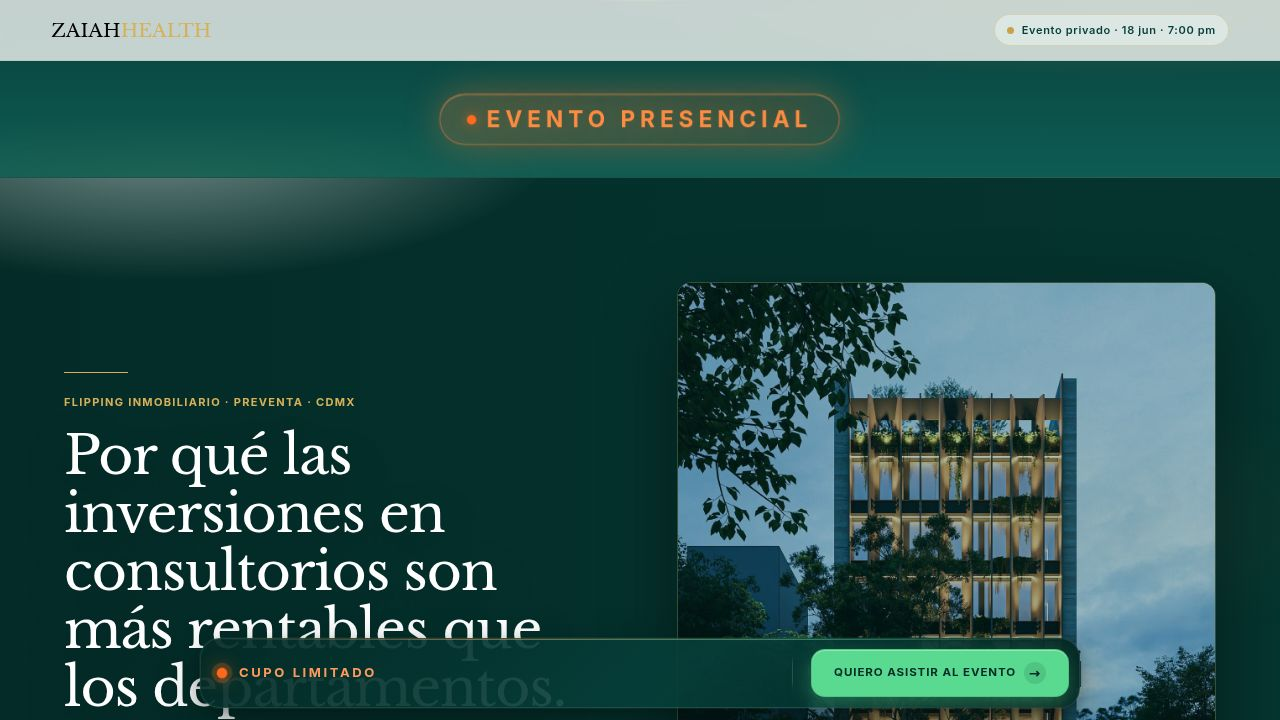
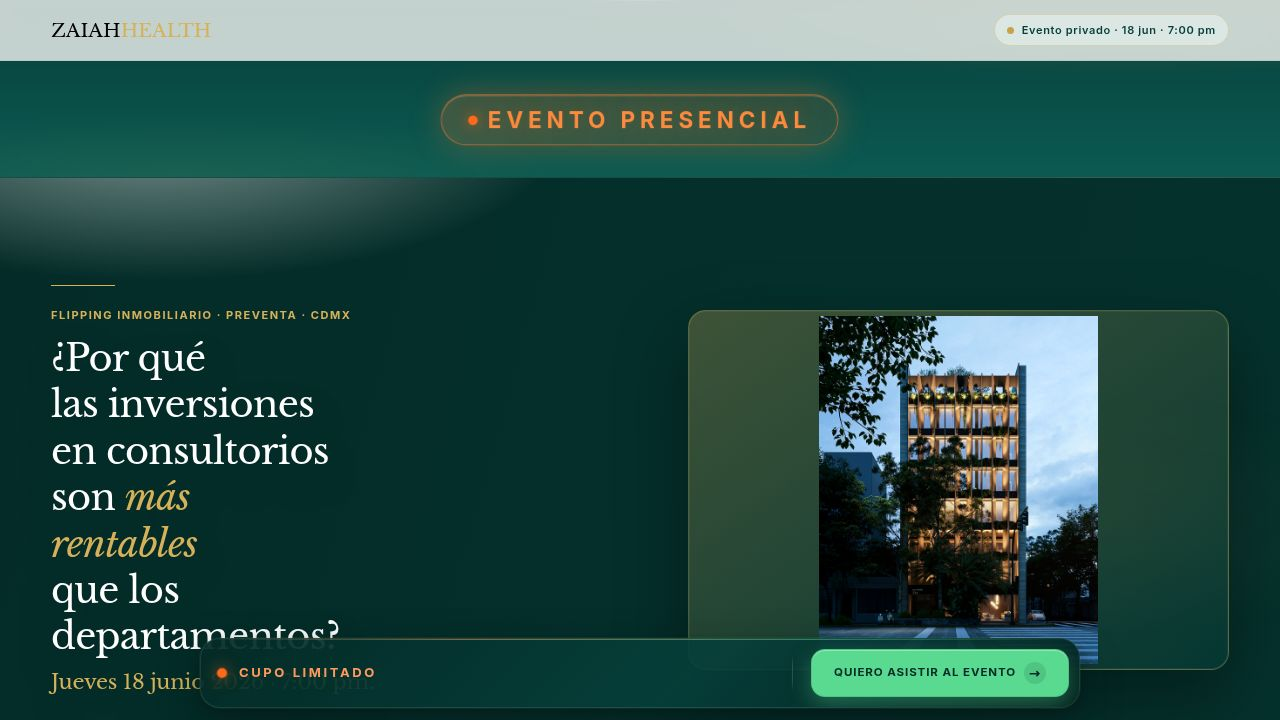
Improve form submission speed and appearance
Make the form hide after submission and speed up API response times by processing background tasks asynchronously.

Replit-Commit-Author: Agent
Replit-Commit-Session-Id: 08580ebf-9783-4f84-9966-c726d7574d09
Replit-Commit-Checkpoint-Type: full_checkpoint
Replit-Commit-Event-Id: 4815a056-9ee3-4796-ab18-e03b7685b230
Replit-Commit-Screenshot-Url: https://storage.googleapis.com/screenshot-production-us-central1/f43a353c-fa28-4d36-9c00-c0c222d3d974/08580ebf-9783-4f84-9966-c726d7574d09/jw7OUGg
Replit-Helium-Checkpoint-Created: true

diff --git a/artifacts/api-server/src/index.js b/artifacts/api-server/src/index.js
@@ -28,6 +28,9 @@ app.post("/api/register", async (req, res) => {
 
   const nombreCompleto = [nombre, apellido].filter(Boolean).join(" ");
 
+  // Respond immediately — background tasks run after
+  res.json({ ok: true });
+
   // ── Monday.com ─────────────────────────────────────────────
   if (MONDAY_TOKEN) {
     try {
@@ -106,8 +109,8 @@ app.post("/api/register", async (req, res) => {
     }
   }
 
-  return res.json({ ok: true });
 });
+
 
 /* ─── Monday.com helper ───────────────────────────────────── */
 function mondayRequest(query) {

diff --git a/artifacts/zaiah-landing/styles.css b/artifacts/zaiah-landing/styles.css
@@ -9341,6 +9341,7 @@ body.has-banner-docked .lp {
 
 /* ── Gracias card ─────────────────────────────────────────── */
 .gracias-card[hidden] { display: none; }
+.form-card[hidden] { display: none !important; }
 .gracias-card {
   background: #fff;
   border-radius: 16px;